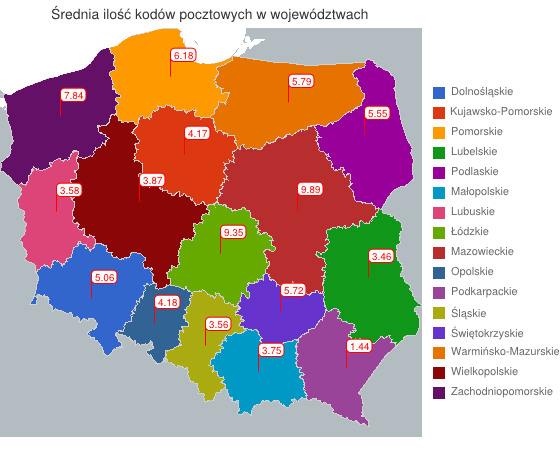
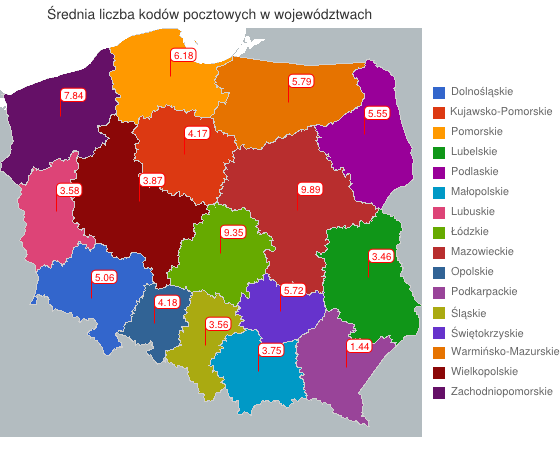
drugie map reduce

Changed region(s): [[0.0911, 0.0, 0.6679, 0.0609]]

diff --git a/scripts/mapreduce2_mmroczkowski.js b/scripts/mapreduce2_mmroczkowski.js
@@ -1,0 +1,27 @@
+var map = function() {
+	emit(this.wojewodztwo, {gminy: [this.gminy]});
+};
+var reduce = function(key, val) {
+	var res = { gminy: [] };
+	val.forEach(function(value) {
+		res.gminy = value.gminy.concat(res.gminy);
+	});
+	return res;
+};
+var finalize = function(key, res) {
+	var countGminy = 0, uniq = {};
+	res.gminy.forEach(function(value) {
+		if(!uniq[value]) {
+			uniq[value] = value;
+			countGminy++;
+		}
+	});
+	res.iloscGmin = countGminy;
+    delete res.gminy;
+    return res;
+};
+db.kodypocztowe.mapReduce(
+	map,
+	reduce,
+	{ out : "result", finalize:finalize}
+);

diff --git a/docs/mmroczkowski.md b/docs/mmroczkowski.md
@@ -1,4 +1,4 @@
-## Średnia ilość kodów pocztowych w województwie
+## Średnia liczba kodów pocztowych w województwie
 
 ### *Michał Mroczkowski*
 
@@ -73,7 +73,7 @@ var finalize = function(key, res) {
 ```
 
 
-Wynik:
+### Wynik:
 
 ```json
 {
@@ -221,16 +221,93 @@ Wynik:
 
 ```
 //chart.googleapis.com/chart
-   ?chs=560x520
+   ?chs=560x460
    &cht=map:auto=0,0,0,10
    &chco=B3BCC0|3366CC|DC3912|FF9900|109618|990099|0099C6|DD4477|66AA00|B82E2E|316395|994499|AAAA11|6633CC|E67300|8B0707|651067
    &chld=PL-DS|PL-KP|PL-PM|PL-LU|PL-PD|PL-MA|PL-LB|PL-LD|PL-MZ|PL-OP|PL-PK|PL-SL|PL-SK|PL-WN|PL-WP|PL-ZP
    &chdl=Dolnośląskie|Kujawsko-Pomorskie|Pomorskie|Lubelskie|Podlaskie|Małopolskie|Lubuskie|Łódzkie|Mazowieckie|Opolskie|Podkarpackie|Śląskie|Świętokrzyskie|Warmińsko-Mazurskie|Wielkopolskie|Zachodniopomorskie
    &chm=f4.17,FF0000,0,1,10|f5.06,FF0000,0,0,10|f6.18,FF0000,0,2,10|f3.46,FF0000,0,3,10|f5.55,FF0000,0,4,10|f3.75,FF0000,0,5,10|f3.58,FF0000,0,6,10|f9.35,FF0000,0,7,10|f9.89,FF0000,0,8,10|f4.18,FF0000,0,9,10|f1.44,FF0000,0,10,10|f3.56,FF0000,0,11,10|f5.72,FF0000,0,12,10|f5.79,FF0000,0,13,10|f3.87,FF0000,0,14,10|f7.84,FF0000,0,15,10
-   &chtt=Średnia+ilość+kodów+pocztowych+w+województwach
+   &chtt=Średnia+liczba+kodów+pocztowych+w+województwach
 ```
 
 ### Skrypt
 
 [Skrypt](/scripts/mapreduce_mmroczkowski.js)
 
+## Liczba gmin w województwach
+
+### Map
+
+```javascript
+var map = function() {
+	emit(this.wojewodztwo, {gminy: [this.gminy]});
+};
+```
+
+### Reduce
+
+```javascript
+var reduce = function(key, val) {
+	var res = { gminy: [] };
+	val.forEach(function(value) {
+		res.gminy = value.gminy.concat(res.gminy);
+	});
+	return res;
+};
+```
+
+### Finalize
+
+```javascript
+var finalize = function(key, res) {
+	var countGminy = 0, uniq = {};
+	res.gminy.forEach(function(value) {
+		if(!uniq[value]) {
+			uniq[value] = value;
+			countGminy++;
+		}
+	});
+	res.iloscGmin = countGminy;
+    delete res.gminy;
+    return res;
+};
+```
+
+### Wynik
+
+```json
+{ "_id" : "", "value" : { "iloscGmin" : 8 } }
+{ "_id" : "dolnośląskie", "value" : { "iloscGmin" : 184 } }
+{ "_id" : "kujawsko-pomorskie", "value" : { "iloscGmin" : 152 } }
+{ "_id" : "lubelskie", "value" : { "iloscGmin" : 205 } }
+{ "_id" : "lubuskie", "value" : { "iloscGmin" : 88 } }
+{ "_id" : "mazowieckie", "value" : { "iloscGmin" : 354 } }
+{ "_id" : "małopolskie", "value" : { "iloscGmin" : 200 } }
+{ "_id" : "opolskie", "value" : { "iloscGmin" : 86 } }
+{ "_id" : "podkarpackie", "value" : { "iloscGmin" : 184 } }
+{ "_id" : "podlaskie", "value" : { "iloscGmin" : 110 } }
+{ "_id" : "pomorskie", "value" : { "iloscGmin" : 165 } }
+{ "_id" : "warmińsko-mazurskie", "value" : { "iloscGmin" : 108 } }
+{ "_id" : "wielkopolskie", "value" : { "iloscGmin" : 246 } }
+{ "_id" : "zachodniopomorskie", "value" : { "iloscGmin" : 144 } }
+{ "_id" : "łódzkie", "value" : { "iloscGmin" : 166 } }
+{ "_id" : "śląskie", "value" : { "iloscGmin" : 181 } }
+{ "_id" : "świętokrzyskie", "value" : { "iloscGmin" : 102 } }
+```
+### Wykres
+![Wykres](https://raw.github.com/nosql/map-reduce/master/images/mmroczkowski-liczba-gmin.png)
+
+```
+//chart.googleapis.com/chart
+   ?chs=560x520
+   &cht=map:auto=0,0,0,10
+   &chco=B3BCC0|3366CC|DC3912|FF9900|109618|990099|0099C6|DD4477|66AA00|B82E2E|316395|994499|AAAA11|6633CC|E67300|8B0707|651067
+   &chld=PL-DS|PL-KP|PL-PM|PL-LU|PL-PD|PL-MA|PL-LB|PL-LD|PL-MZ|PL-OP|PL-PK|PL-SL|PL-SK|PL-WN|PL-WP|PL-ZP
+   &chdl=Dolnośląskie|Kujawsko-Pomorskie|Pomorskie|Lubelskie|Podlaskie|Małopolskie|Lubuskie|Łódzkie|Mazowieckie|Opolskie|Podkarpackie|Śląskie|Świętokrzyskie|Warmińsko-Mazurskie|Wielkopolskie|Zachodniopomorskie
+   &chm=f152,FF0000,0,1,10|f184,FF0000,0,0,10|f165,FF0000,0,2,10|f205,FF0000,0,3,10|f110,FF0000,0,4,10|f200,FF0000,0,5,10|f88,FF0000,0,6,10|f166,FF0000,0,7,10|f354,FF0000,0,8,10|f86,FF0000,0,9,10|f184,FF0000,0,10,10|f181,FF0000,0,11,10|f102,FF0000,0,12,10|f108,FF0000,0,13,10|f246,FF0000,0,14,10|f144,FF0000,0,15,10
+   &chtt=Liczba+gmin+w+województwach
+```
+
+### Skrypt
+
+[Skrypt](/scripts/mapreduce2_mmroczkowski.js)
